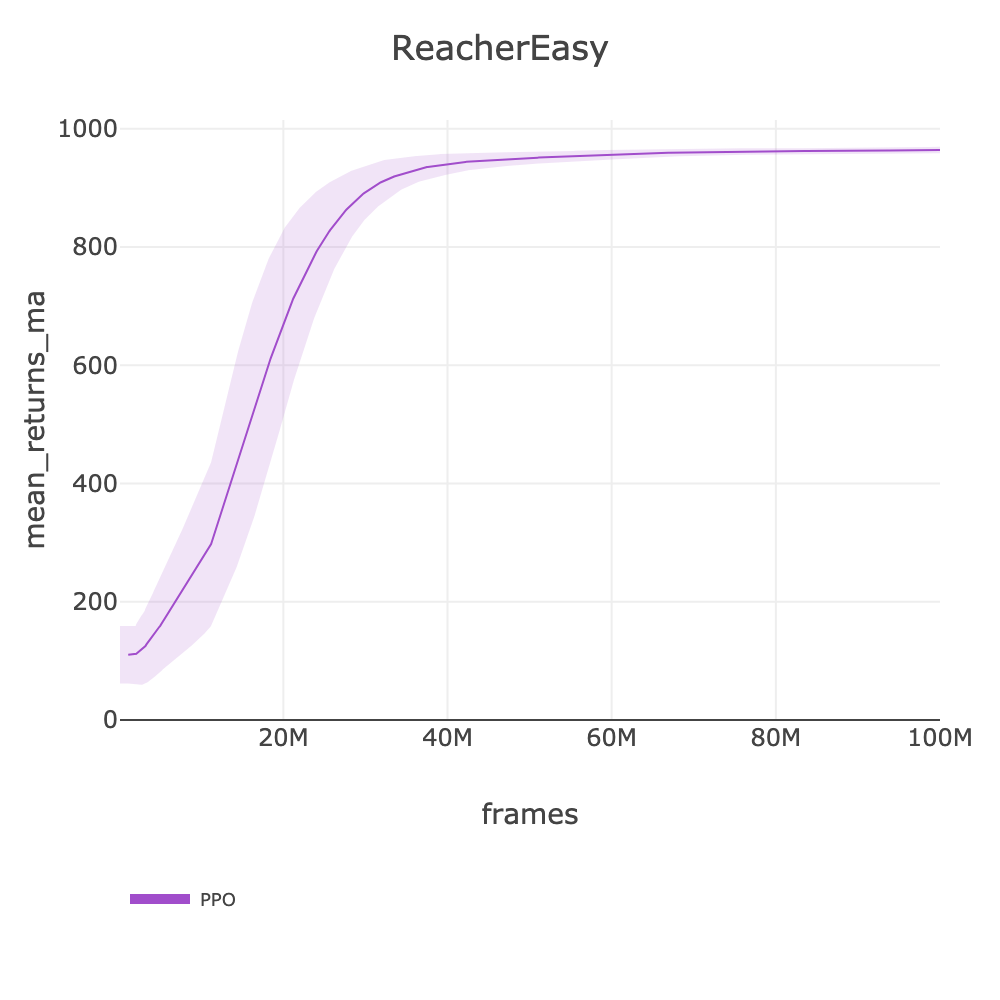
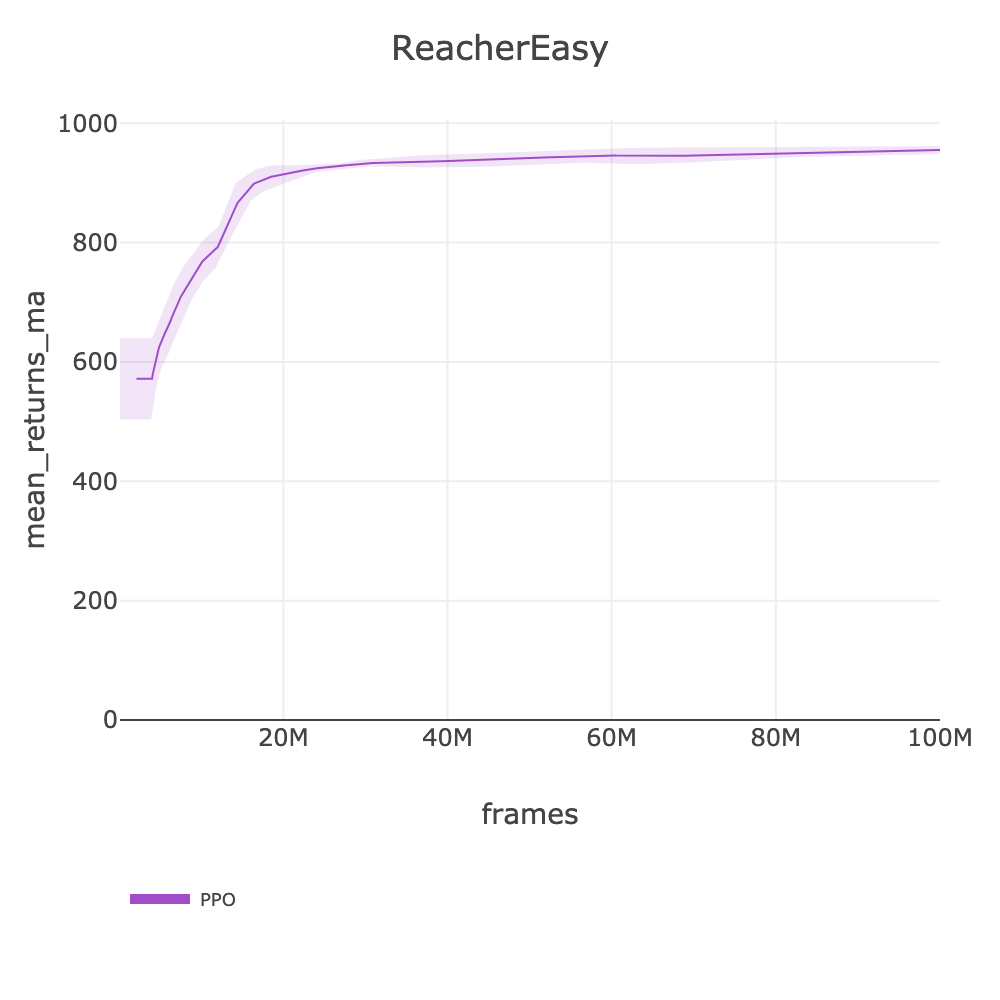
feat: intake PPO ReacherEasy (955, ✅) + ReacherHard (947, ✅)
Both converge by 20-25M frames, meeting 950 target

diff --git a/docs/BENCHMARKS.md b/docs/BENCHMARKS.md
@@ -940,10 +940,10 @@ source .env && uv run slm-lab run-remote --gpu \
 | playground/PointMass | PPO | ⚠ | 863.53 | ppo_playground | [ppo_playground_pointmass_2026_03_12_111935](https://huggingface.co/datasets/SLM-Lab/benchmark-dev/tree/main/data/ppo_playground_pointmass_2026_03_12_111935) | 900 | 11060 | 100M | 2h 31m |
 | | SAC | 🔄 | - | sac_playground | - | | - | - | - |
 | | CrossQ | 🔄 | - | crossq_playground | - | | - | - | - |
-| playground/ReacherEasy | PPO | 🔄 | - | ppo_playground | - | 950 | - | - | - |
+| playground/ReacherEasy | PPO | ✅ | 955.08 | ppo_playground | [ppo_playground_reachereasy_2026_03_12_122115](https://huggingface.co/datasets/SLM-Lab/benchmark-dev/tree/main/data/ppo_playground_reachereasy_2026_03_12_122115) | 950 | 14910 | 100M | 1h 52m |
 | | SAC | 🔄 | - | sac_playground | - | | - | - | - |
 | | CrossQ | 🔄 | - | crossq_playground | - | | - | - | - |
-| playground/ReacherHard | PPO | 🔄 | - | ppo_playground | - | 950 | - | - | - |
+| playground/ReacherHard | PPO | ✅ | 946.99 | ppo_playground | [ppo_playground_reacherhard_2026_03_12_123226](https://huggingface.co/datasets/SLM-Lab/benchmark-dev/tree/main/data/ppo_playground_reacherhard_2026_03_12_123226) | 950 | 16240 | 100M | 1h 42m |
 | | CrossQ | 🔄 | - | crossq_playground | - | | - | - | - |
 | | SAC | 🔄 | - | sac_playground | - | | - | - | - |
 | playground/SwimmerSwimmer6 | PPO | 🔄 | - | ppo_playground | - | 560 | - | - | - |
